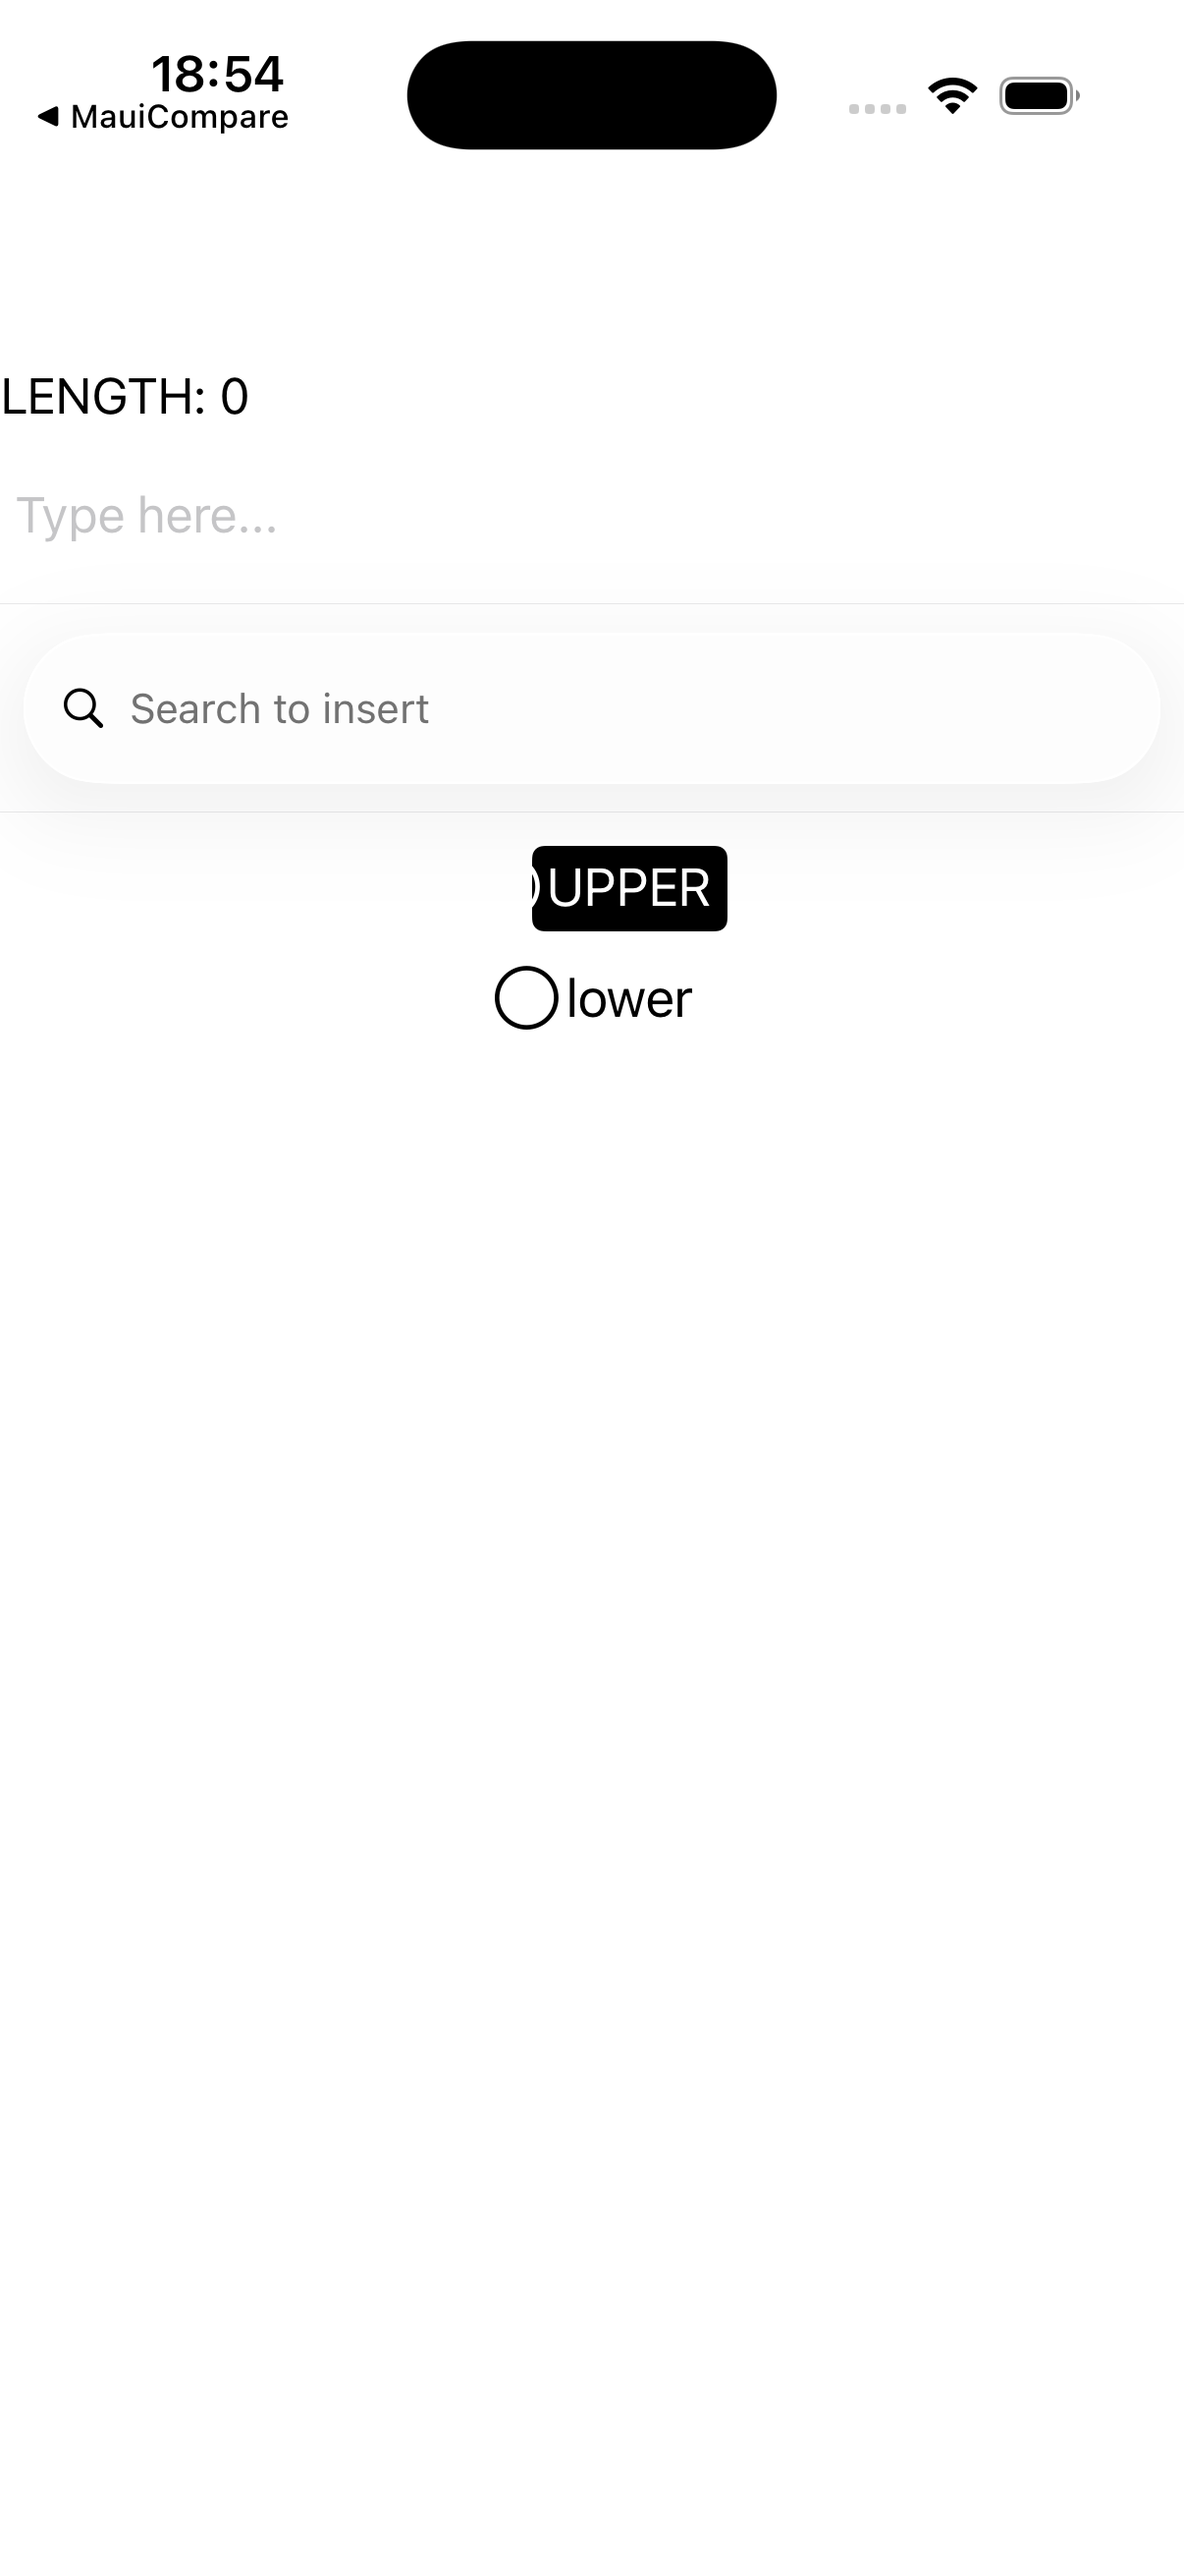
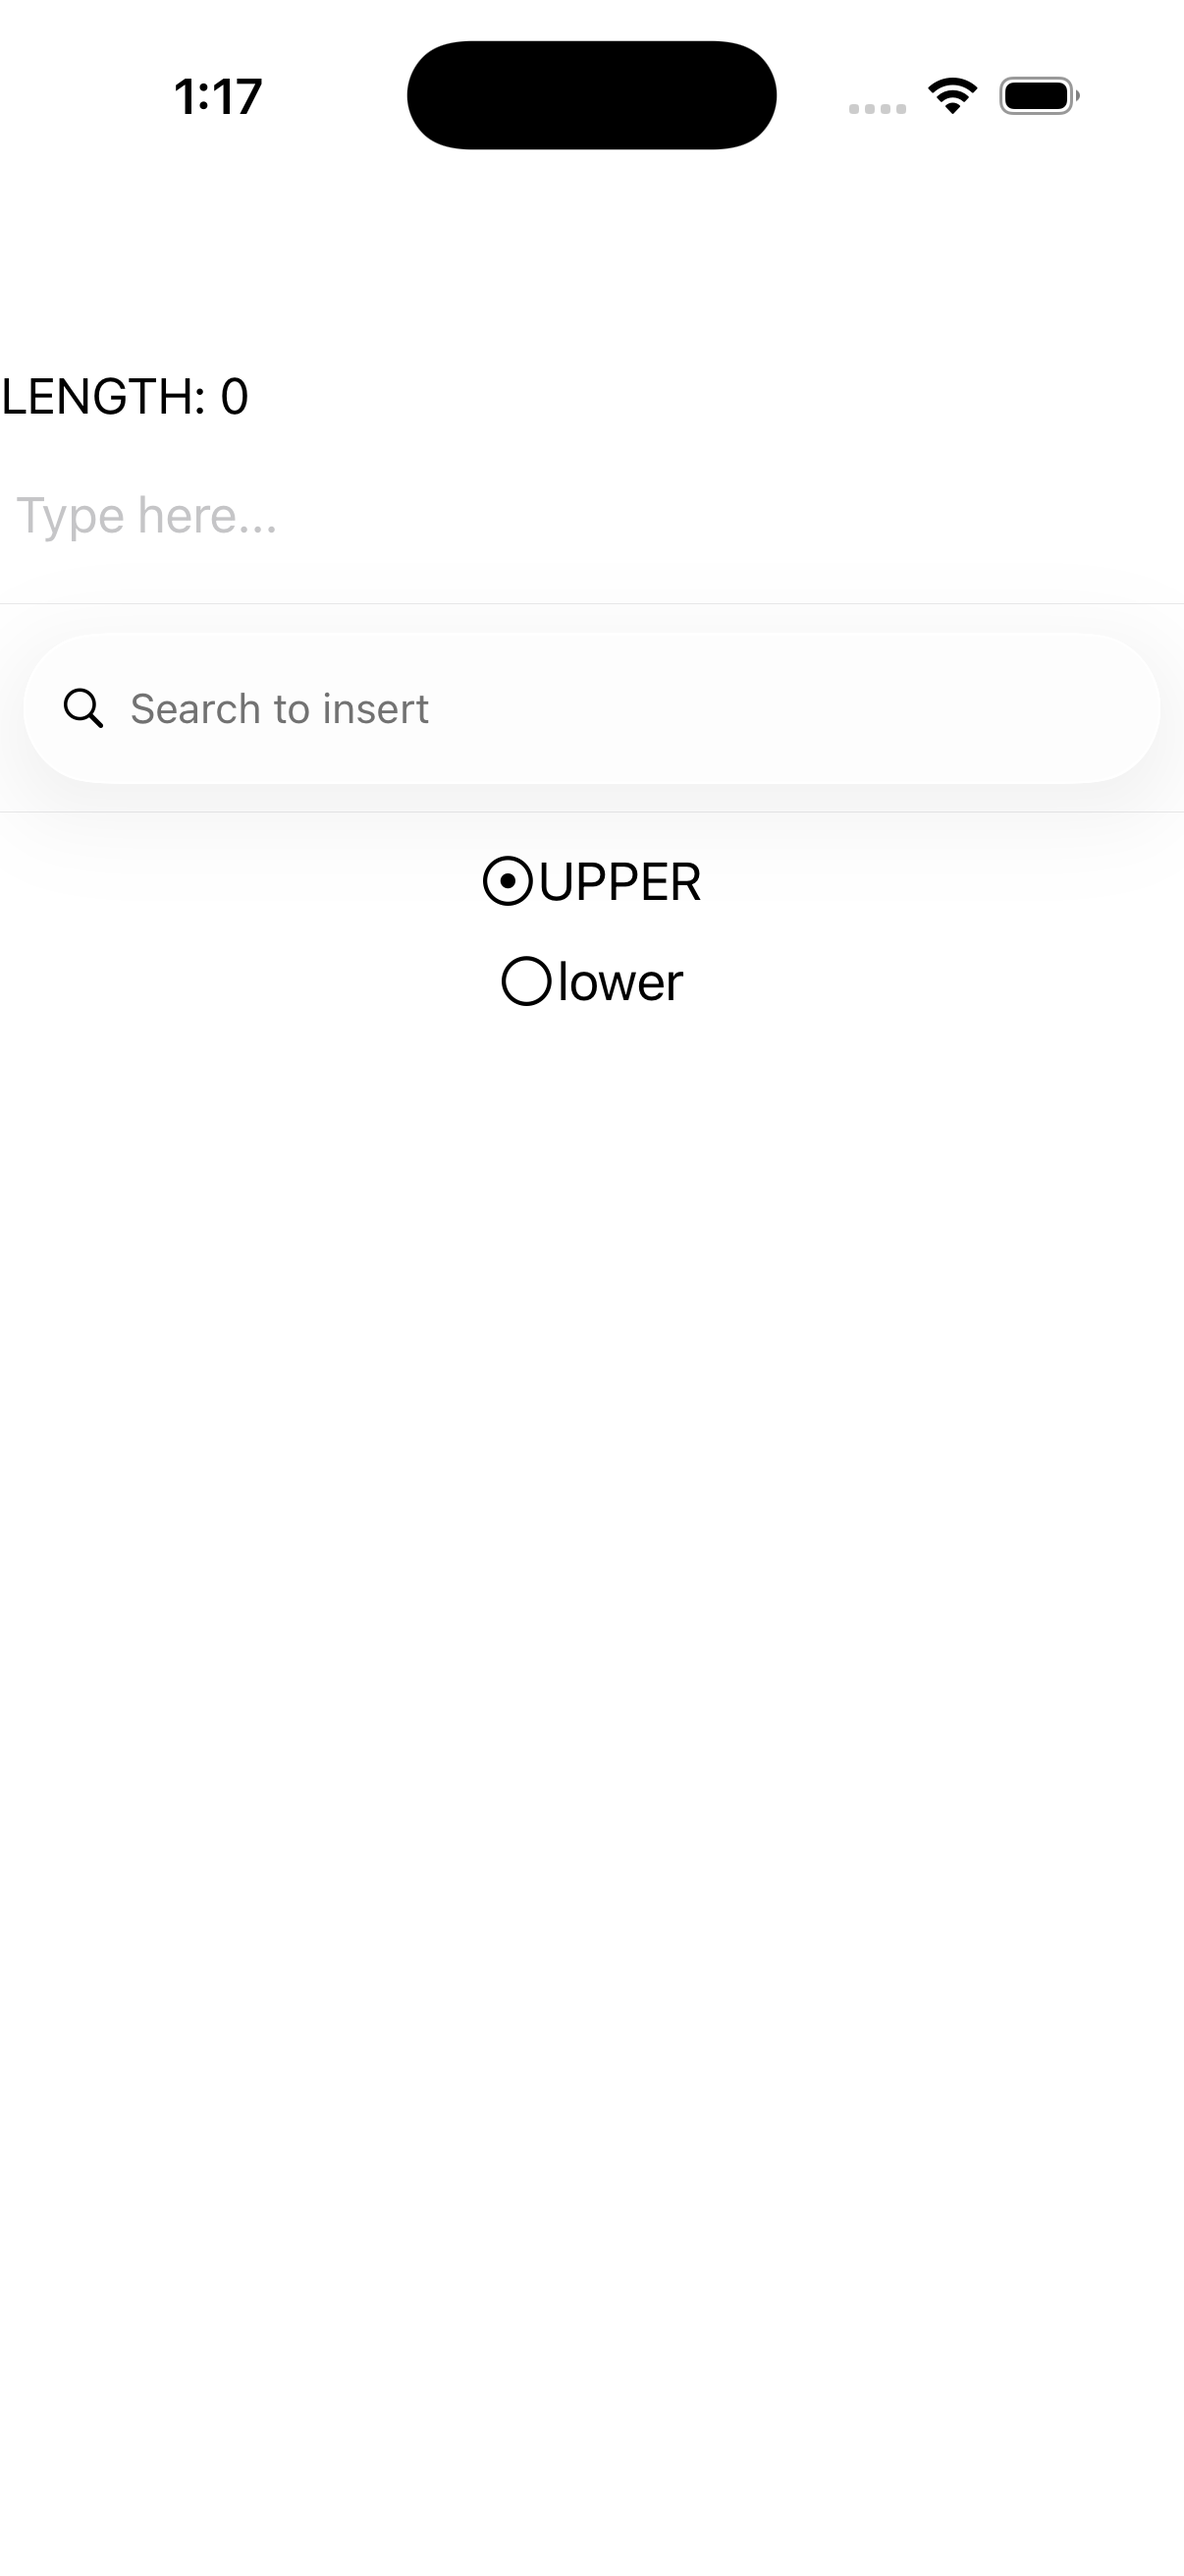
fix(ios,parity): RadioButton renders (unset TextColor -> labelColor) + drop iOS-26 selected fill
example 23/172 (input_controls): the radio button group was completely invisible on iOS.
Two fixes, both cascading to all ~8 radio_button_group pages:

1. map_text_color forced to_ui_color(unset) — a clear/black color set as BOTH the title
   color AND the button tintColor, hiding the title AND the SF-symbol circle indicator.
   Now unset -> UIColor.labelColor (visible on light + dark); explicit colors win. Also
   fixed the kerned-title foreground path.
2. The radio used a System UIButton, whose iOS-26 selected state paints a tint-colored
   fill (a white box behind the selected radio once the tint is the label color) — MAUI's
   templated radio has no such fill. Switched to UIButtonTypeCustom (still tints the
   template SF-symbols, no selected fill).

Verified: input_controls radios render matching MAUI both themes — filled circle for
selected, empty for unselected, white labels (sim-captured); 9 radio ios tests pass;
clang-tidy 0. Residual: radio group center-vs-left alignment. Tracker: input_controls -> minor (20 minor).

Changed region(s): [[0.3988, 0.3089, 0.6136, 0.4016], [0.0614, 0.0, 0.2454, 0.0618]]

diff --git a/port/cpp/src/platform/ios/radio_button_handler.mm b/port/cpp/src/platform/ios/radio_button_handler.mm
@@ -70,7 +70,9 @@ namespace
             [button setAttributedTitle:nil forState:UIControlStateNormal];
             return;
         }
-        UIColor* const foreground = to_ui_color(view.text_color());
+        const maui::graphics::color text_color = view.text_color();
+        UIColor* const foreground =
+            text_color != maui::graphics::color{} ? to_ui_color(text_color) : UIColor.labelColor;
         NSString* const plain_title = [button titleForState:UIControlStateNormal];
         [button setAttributedTitle:maui::platform::ios::kern_attributed(plain_title, spacing, foreground)
                           forState:UIControlStateNormal];
@@ -114,7 +116,10 @@ namespace maui::core
     std::unique_ptr<radio_button_platform> radio_button_handler::create_platform_view()
     {
         auto platform = std::make_unique<radio_button_platform>();
-        UIButton* const button = [UIButton buttonWithType:UIButtonTypeSystem];
+        // Custom (not System): the iOS-26 system button paints a tint-colored fill behind the SELECTED
+        // state (a white box once the tint is the dynamic label color), which MAUI's templated radio has
+        // no analog for. A custom button still tints the template SF-symbol indicators via tintColor.
+        UIButton* const button = [UIButton buttonWithType:UIButtonTypeCustom];
         // The DefaultTemplate's indicator pair, as SF symbols riding UIButton's state machinery: the
         // empty ring while unselected, the filled ring while selected (the CheckedIndicator's opacity
         // flip, collapsed onto UIButton.selected).
@@ -181,9 +186,12 @@ namespace maui::core
             return;
         }
         // The ButtonExtensions.UpdateTextColor recipe; the tintColor also tints the SF-symbol
-        // indicator, the fallback's stand-in for the template's themed Ellipse strokes.
+        // indicator, the fallback's stand-in for the template's themed Ellipse strokes. An unset
+        // (default-constructed) TextColor must resolve to the dynamic system label color, NOT a clear/
+        // opaque-black tint that hides BOTH the title AND the circle on dark backgrounds. Explicit wins.
         UIButton* const button = as_button(platform->native);
-        UIColor* const color = to_ui_color(view.text_color());
+        const maui::graphics::color text_color = view.text_color();
+        UIColor* const color = text_color != maui::graphics::color{} ? to_ui_color(text_color) : UIColor.labelColor;
         [button setTitleColor:color forState:UIControlStateNormal];
         [button setTitleColor:color forState:UIControlStateHighlighted];
         [button setTitleColor:color forState:UIControlStateDisabled];

diff --git a/port/cpp/docs/comparison/README.md b/port/cpp/docs/comparison/README.md
@@ -2,7 +2,7 @@
 
 Theme-matched iOS comparison: each page rendered by **real .NET MAUI** vs the **C++ port**, on the same iPhone 17 simulator, compared **light-vs-light** and **dark-vs-dark**. Both stacks render native-default controls + the system font (the C# app's `dotnet new maui` default `Styles.xaml` + OpenSans are stripped; appearance forced via `MAUI_THEME` / `MAUI_APPEARANCE`). Goal: pixel-perfect parity, fixed example-by-example.
 
-**Progress: 0 / 172 🟢 matched** · 19 🟡 minor · 51 🔴 diff · 102 ⬜ pending
+**Progress: 0 / 172 🟢 matched** · 20 🟡 minor · 51 🔴 diff · 101 ⬜ pending
 
 Status legend: 🟢 pixel-match (both themes) · 🟡 minor diff · 🔴 notable diff to fix · ⬜ not yet reviewed. Per-theme verdicts in `parity_status.json`.
 
@@ -34,7 +34,7 @@ Rows are in **fix order** (top → bottom): foundational single controls first (
 | 20 | Content View | 🟡<br>L:minor<br>D:minor | ![](csharp_ios_light/content_view.png) | ![](cpp_ios_light/content_view.png) | ![](csharp_ios_dark/content_view.png) | ![](cpp_ios_dark/content_view.png) |
 | 21 | Containers | 🔴<br>L:diff<br>D:diff | ![](csharp_ios_light/containers.png) | ![](cpp_ios_light/containers.png) | ![](csharp_ios_dark/containers.png) | ![](cpp_ios_dark/containers.png) |
 | 22 | Control stack | 🔴<br>L:diff<br>D:diff | ![](csharp_ios_light/controls_stack.png) | ![](cpp_ios_light/controls_stack.png) | ![](csharp_ios_dark/controls_stack.png) | ![](cpp_ios_dark/controls_stack.png) |
-| 23 | Input Controls | ⬜<br>L:pending<br>D:pending | ![](csharp_ios_light/input_controls.png) | ![](cpp_ios_light/input_controls.png) | ![](csharp_ios_dark/input_controls.png) | ![](cpp_ios_dark/input_controls.png) |
+| 23 | Input Controls | 🟡<br>L:minor<br>D:minor | ![](csharp_ios_light/input_controls.png) | ![](cpp_ios_light/input_controls.png) | ![](csharp_ios_dark/input_controls.png) | ![](cpp_ios_dark/input_controls.png) |
 | 24 | Fonts | ⬜<br>L:pending<br>D:pending | ![](csharp_ios_light/fonts.png) | ![](cpp_ios_light/fonts.png) | ![](csharp_ios_dark/fonts.png) | ![](cpp_ios_dark/fonts.png) |
 | 25 | Formatted Text | ⬜<br>L:pending<br>D:pending | ![](csharp_ios_light/formatted_text.png) | ![](cpp_ios_light/formatted_text.png) | ![](csharp_ios_dark/formatted_text.png) | ![](cpp_ios_dark/formatted_text.png) |
 | 26 | Styles | ⬜<br>L:pending<br>D:pending | ![](csharp_ios_light/styles.png) | ![](cpp_ios_light/styles.png) | ![](csharp_ios_dark/styles.png) | ![](cpp_ios_dark/styles.png) |
